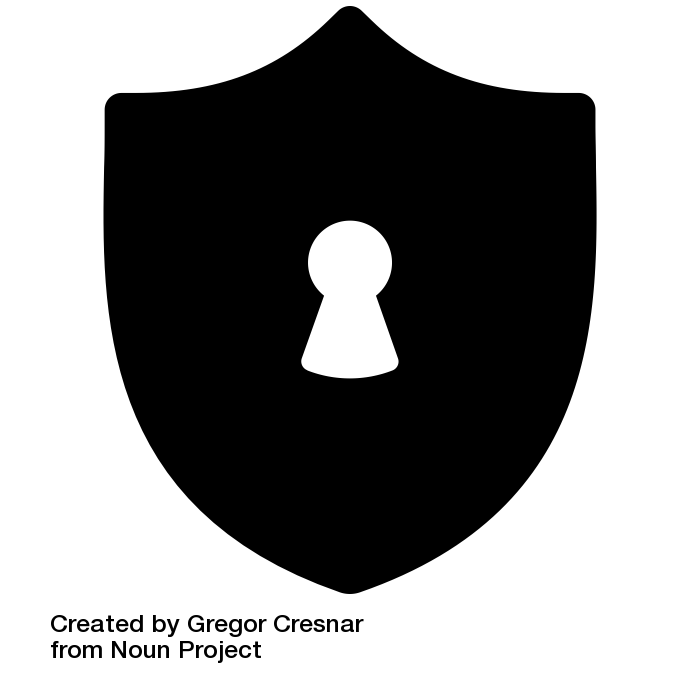
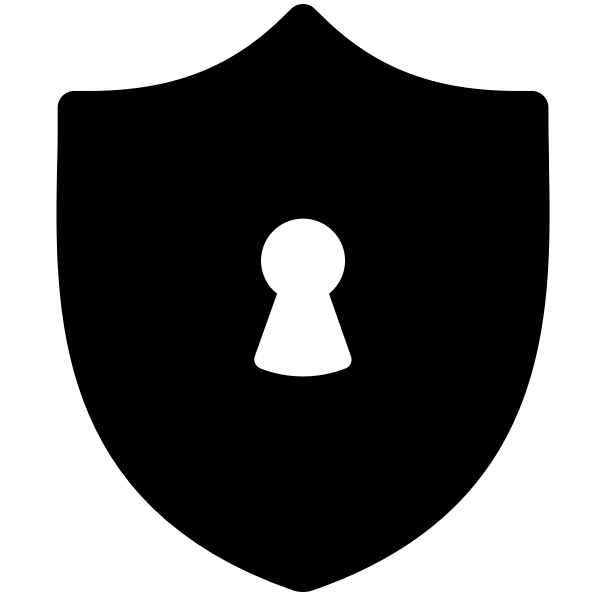
remove water mark and refactor loging with phone number

diff --git a/GoalMogul-iOS/src/actions/AuthActions.js b/GoalMogul-iOS/src/actions/AuthActions.js
@@ -25,18 +25,31 @@ export const passwordChanged = (password) => {
   };
 };
 
+const validateEmail = (email) => {
+  var re = /^(([^<>()\[\]\\.,;:\s@"]+(\.[^<>()\[\]\\.,;:\s@"]+)*)|(".+"))@((\[[0-9]{1,3}\.[0-9]{1,3}\.[0-9]{1,3}\.[0-9]{1,3}\])|(([a-zA-Z\-0-9]+\.)+[a-zA-Z]{2,}))$/;
+   return re.test(String(email).toLowerCase());
+};
+
 export const loginUser = ({ username, password }) => {
   // Call the endpoint to use username and password to signin
   // Obtain the credential
+
+  const data = validateEmail(username) ?
+  {
+    email: username,
+    password
+  } :
+  {
+    phone: username,
+    password
+  };
+
   return async (dispatch) => {
     dispatch({
       type: LOGIN_USER_LOADING
     });
     const message = await API
-      .post('pub/user/authenticate/', {
-        email: username,
-        password
-      }, undefined)
+      .post('pub/user/authenticate/', { ...data }, undefined)
       .then((res) => {
         console.log('login with message: ', res);
         // User Login Successfully

diff --git a/GoalMogul-iOS/src/Main/Common/Search/SearchOverlay.js b/GoalMogul-iOS/src/Main/Common/Search/SearchOverlay.js
@@ -35,10 +35,6 @@ class SearchOverlay extends Component {
     Actions.pop();
   }
 
-  handleClear = () => {
-    console.log('user clear search input');
-  }
-
   handleChangeText = (value) => {
     this.props.debouncedSearch(value.trim());
   }
@@ -88,7 +84,7 @@ class SearchOverlay extends Component {
               cancelButtonTitle='Cancel'
               onCancel={this.handleCancel}
               onChangeText={this.handleChangeText}
-              onClear={this.handleClear}
+              clearIcon={null}
               cancelButtonProps={{ color: '#45C9F6' }}
               showLoading={this.props.loading}
             />

diff --git a/GoalMogul-iOS/src/Main/Common/SearchBarHeader.js b/GoalMogul-iOS/src/Main/Common/SearchBarHeader.js
@@ -19,6 +19,8 @@ import Setting from '../../asset/header/setting.png';
 /* Actions */
 import { back, openProfile, openSetting } from '../../actions';
 
+const tintColor = '#33485e';
+
 /**
   TODO: refactor element to have consistent behavior
   rightIcon: 'empty' or null,
@@ -67,7 +69,7 @@ class SearchBarHeader extends Component {
         style={styles.headerLeftImage}
         onPress={this.handleProfileOnClick.bind(this)}
       >
-        <Image style={styles.headerLeftImage} source={Logo} />
+        <Image style={{ ...styles.headerLeftImage, tintColor }} source={Logo} />
       </TouchableOpacity>
     );
   }

diff --git a/GoalMogul-iOS/src/LoginPage.js b/GoalMogul-iOS/src/LoginPage.js
@@ -168,6 +168,7 @@ const styles = {
     paddingTop: 12,
     color: '#ff0033',
     justifyContent: 'center',
+    alignSelf: 'center'
   }
 };
 
